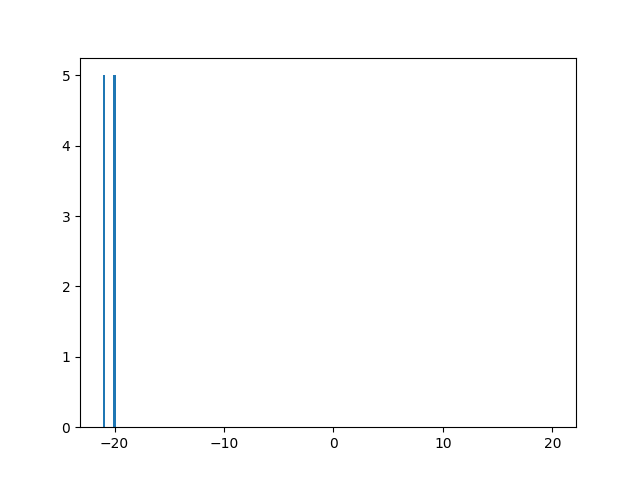
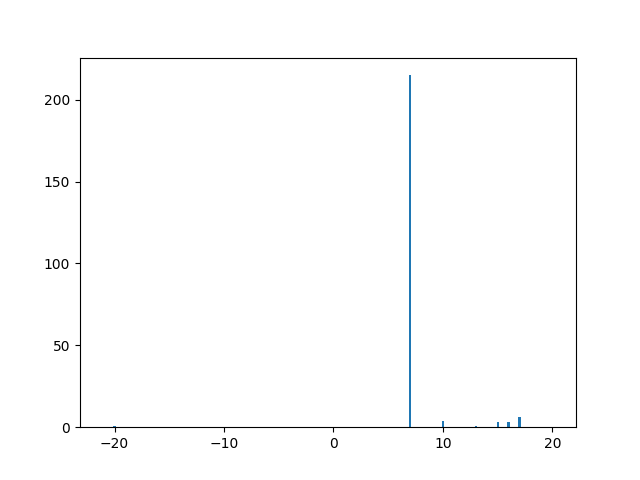
asdf

diff --git a/car-recognition-aws/predict.py b/car-recognition-aws/predict.py
@@ -16,9 +16,9 @@ from tensorflow.keras.models import model_from_json
 from tensorflow.keras.optimizers import SGD, RMSprop
 from sklearn.metrics import classification_report, confusion_matrix
 from matplotlib import pyplot as plt
+from collections import defaultdict
 
 def main(args):
-    """
     pprint(args)
     
     test_datagen = ImageDataGenerator(rescale=1. / 255)
@@ -47,7 +47,6 @@ def main(args):
     pprint("HELLOOOOOOOOOOOOOOOOOOOOOO") 
     #y_true=loaded_model.evaluate_generator.classes
     #pprint(y_true)
-    """
     # evaluate loaded model on test data
     """
     sgd = SGD(lr=args.learning_rate, decay=args.lr_decay, momentum=0.9, nesterov=True)
@@ -68,7 +67,6 @@ def main(args):
     predictions = [labels[k] for k in predictionIndices]
     print (confusion_matrix(predictionIndices,labels))
     """
-    """
     test_generator.reset()
     Y_pred = loaded_model.predict_generator(test_generator)
     classes = test_generator.classes[test_generator.index_array]
@@ -80,14 +78,25 @@ def main(args):
         index = int(y_pred[i])
         rightLabel = (Y_pred[i][index])
         yearsOff = rightLabel - predictedLabel
+        yearsOffArr.append(yearsOff)
         #pprint(y_pred[i], Y_pred[i][y_pred[i]])
-    """
     potentialYearsOff = range(-21, 21)
-    yearsOffArr = [-21, 0, 2, 0, 4, 0, 2, 5, 9, -12]
+    #yearsOffArr = [-21, 0, 2, 0, 4, 0, 2, 5, 9, -12]
+    countsArr = [ [l, yearsOffArr.count(l)] for l in set(yearsOffArr)] 
+    print(countsArr)
+    countsDict = dict( (l, yearsOffArr.count(l) ) for l in set(yearsOffArr)) 
+    #countsDictLambda = lambda:( (l, yearsOffArr.count(l) ) for l in set(yearsOffArr)) 
+    #countsArrLambda = lambda:[ [l, yearsOffArr.count(l)] for l in set(yearsOffArr)] 
+    #countsDict =defaultdict(countsArrLambda)
+    print(countsDict.items()) 
     heightsArr = np.zeros(42)
-    heightsArr[0] = 5
-    heightsArr[1] = 5
-    plt.bar(potentialYearsOff, yearsOffArr, width=0.2)
+    for i in range(-21, 22):
+        if i in countsDict:
+            heightsArr[i] = countsDict[i]
+    print(heightsArr)
+    #heightsArr[0] = 5
+    #heightsArr[1] = 5
+    plt.bar(potentialYearsOff, heightsArr, width=0.2)
     plt.savefig('differences.png')       
     #sum(y_pred==classes)/10000
     #print(confusion_matrix(test_generator.classes[test_generator.index_array],y_pred))
